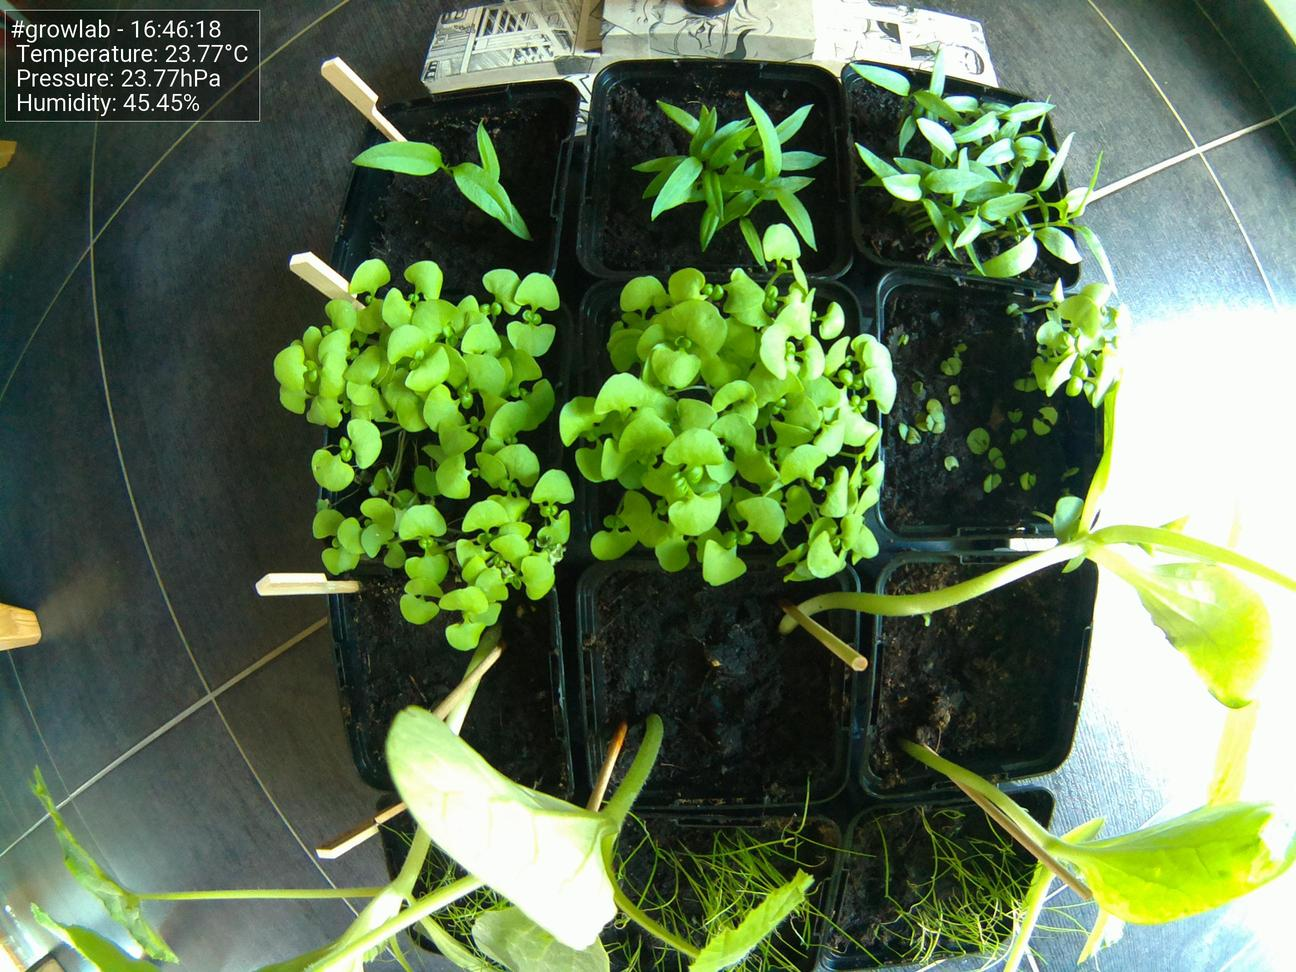
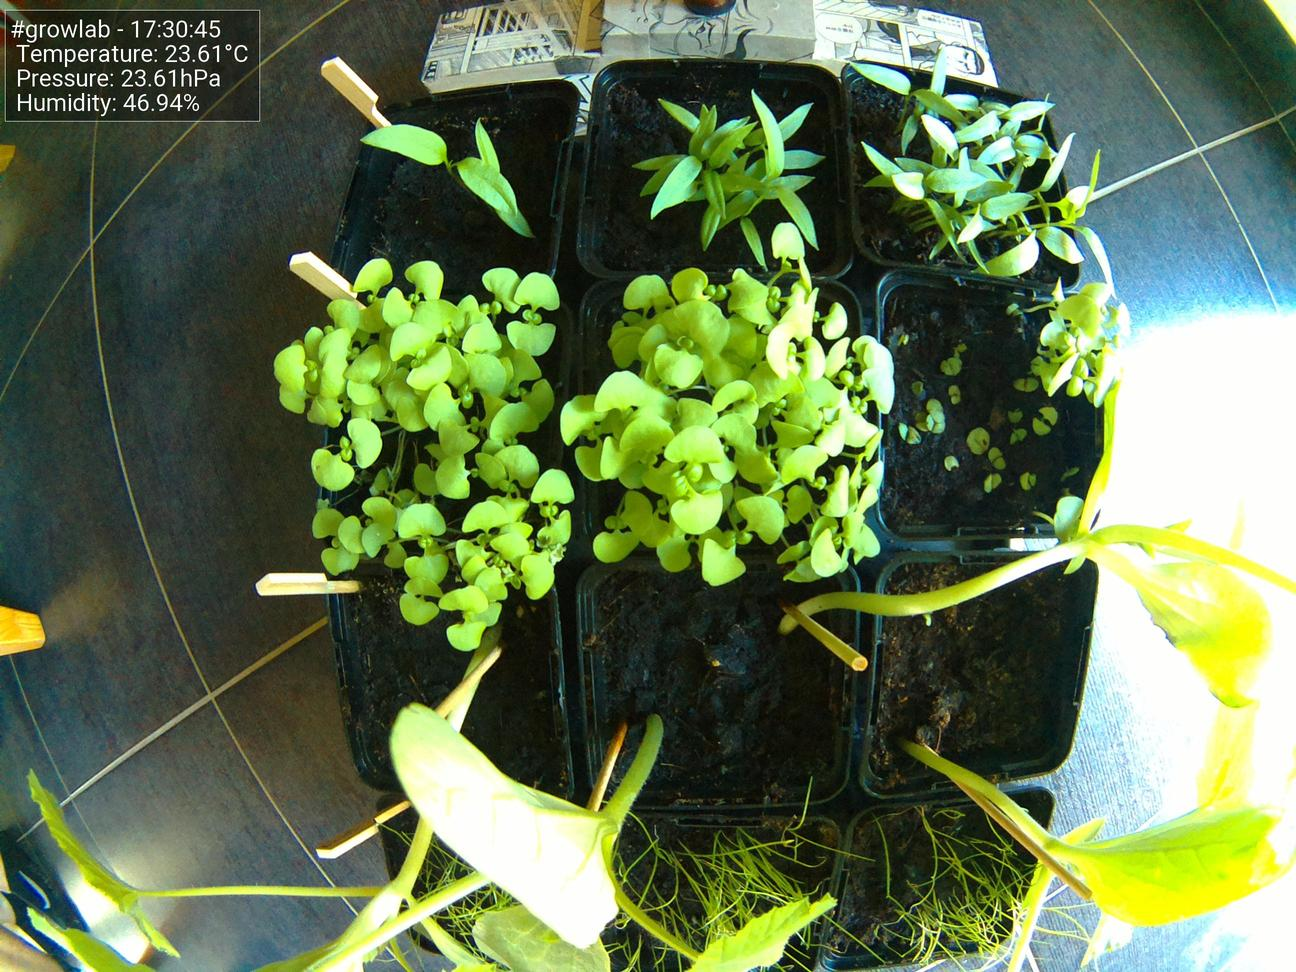
Update images at Sat  5 Jun 17:30:54 CEST 2021

diff --git a/index.html b/index.html
@@ -47,19 +47,19 @@
                         <tbody>
                             <tr>
                                 <td>Time</td>
-                                <td>16:46:18</td>
+                                <td>17:30:45</td>
                             </tr>
                             <tr>
                                 <td>Temperature</td>
-                                <td>23.77°C</td>
+                                <td>23.61°C</td>
                             </tr>
                             <tr>
                                 <td>Humidity</td>
-                                <td>45.45%</td>
+                                <td>46.94%</td>
                             </tr>
                             <tr>
                                 <td>Pressure</td>
-                                <td>23.77hPa</td>
+                                <td>23.61hPa</td>
                             </tr>
                         </tbody>
                     </table>
@@ -67,7 +67,7 @@
 
                 <h5>Latest image</h5>
                 <div style="width: 85%;">
-                            <img class="figure-img img-fluid rounded" src="./preview.jpg?uid=1622904387.2065687">
+                            <img class="figure-img img-fluid rounded" src="./preview.jpg?uid=1622907054.365287">
                 </div>
             </div>
         </div>
